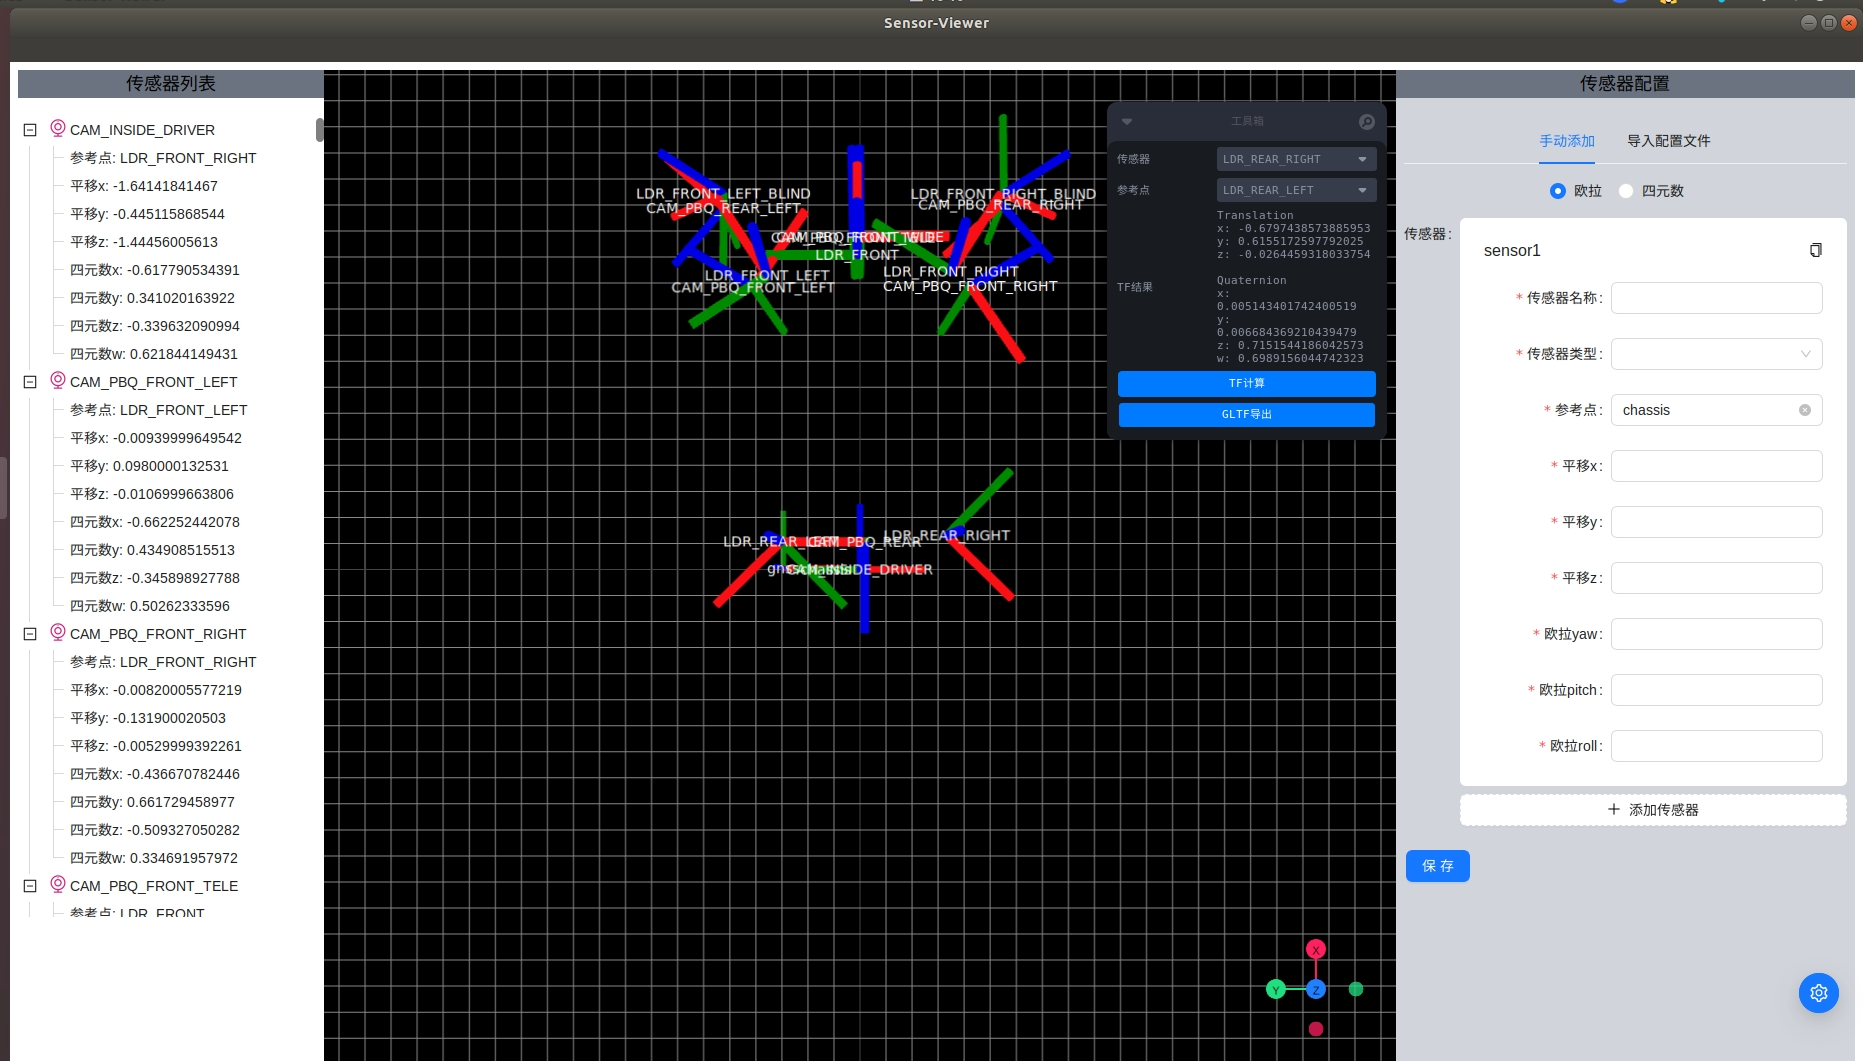
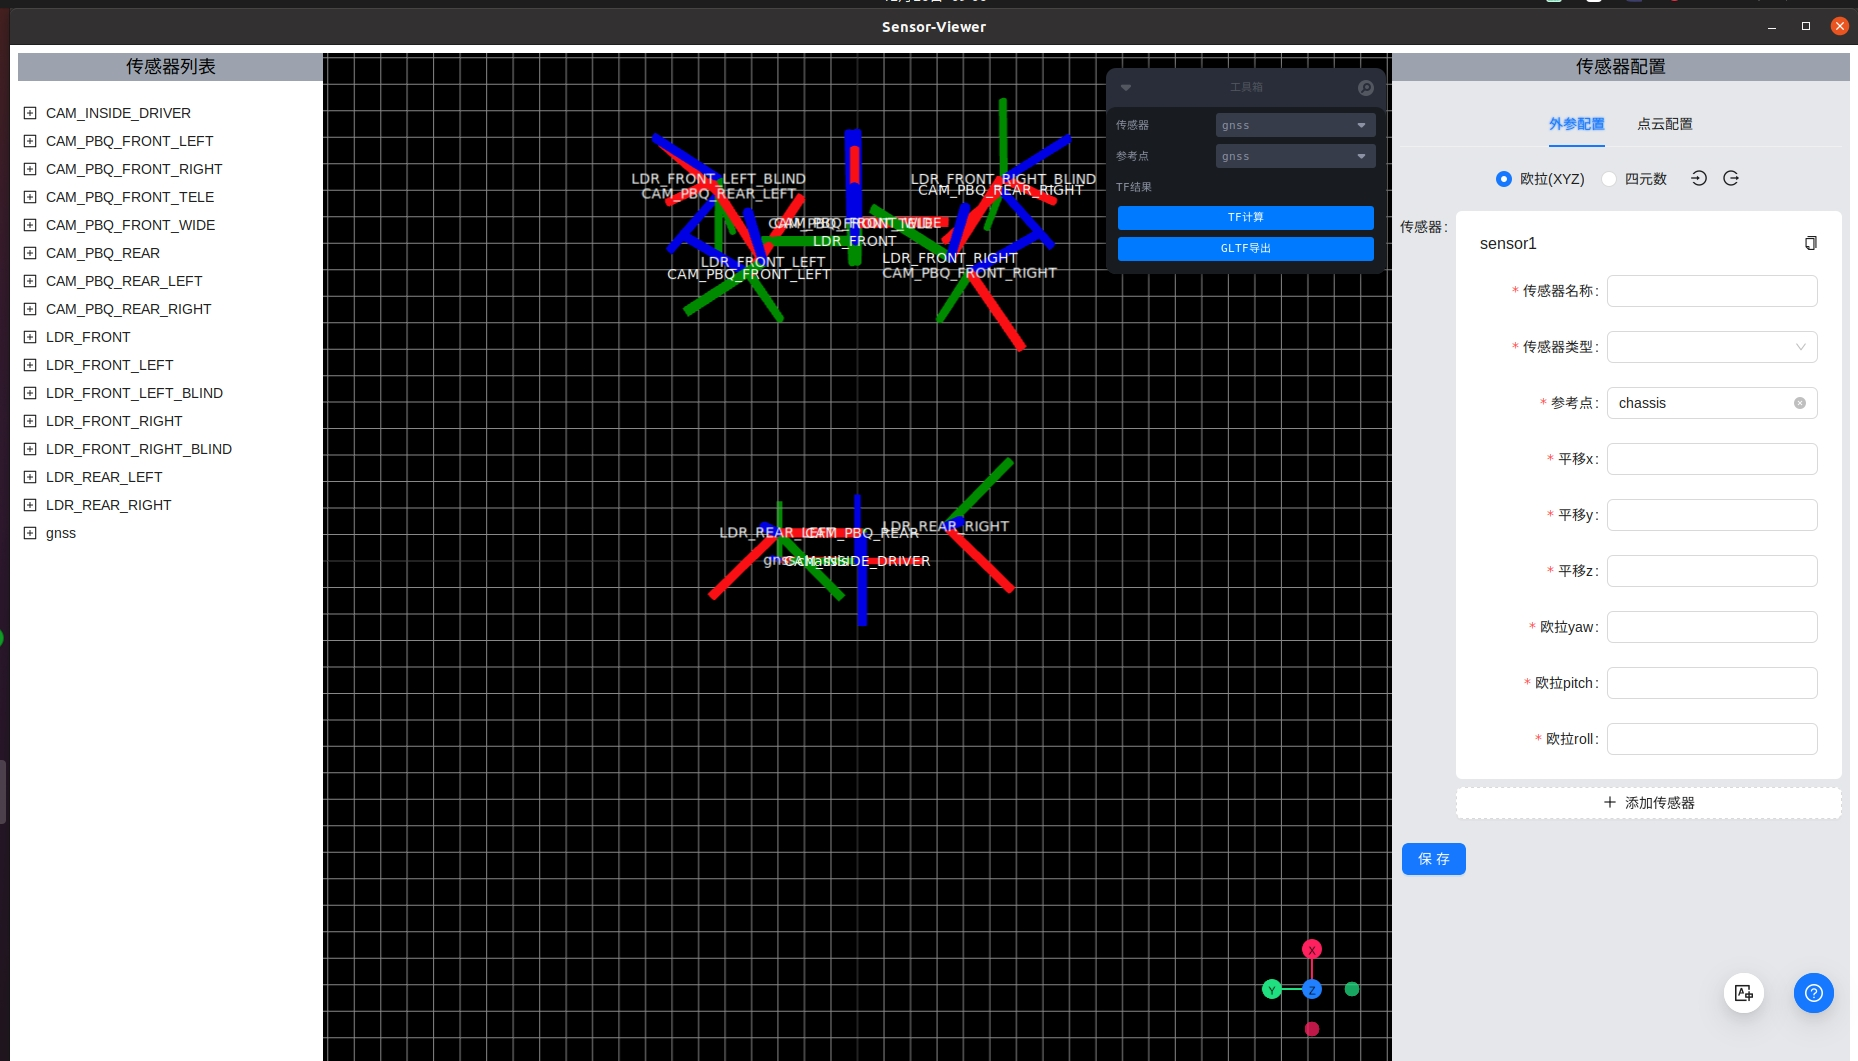
update to v0.5

diff --git a/README.md b/README.md
@@ -26,6 +26,7 @@
 -   Support Euler and quaternion rotation methods
 -   Supports sensor configuration file import and export
 -   Support GLTF model file export
+-   Support pcd preview
 
 ## Download
 

diff --git a/README.zh_CN.md b/README.zh_CN.md
@@ -18,6 +18,7 @@
 -   支持欧拉旋转和四元数表达方式
 -   支持传感器配置文件导入，导出
 -   支持 GLTF 模型文件导出
+-   支持点云文件预览
 
 ## 下载
 
